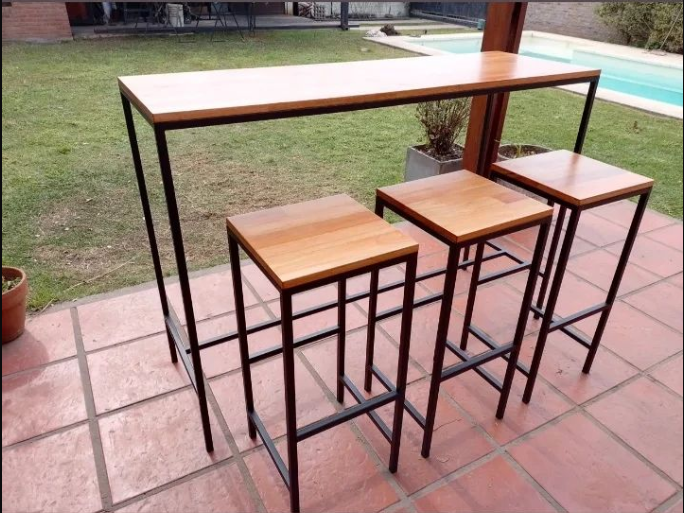
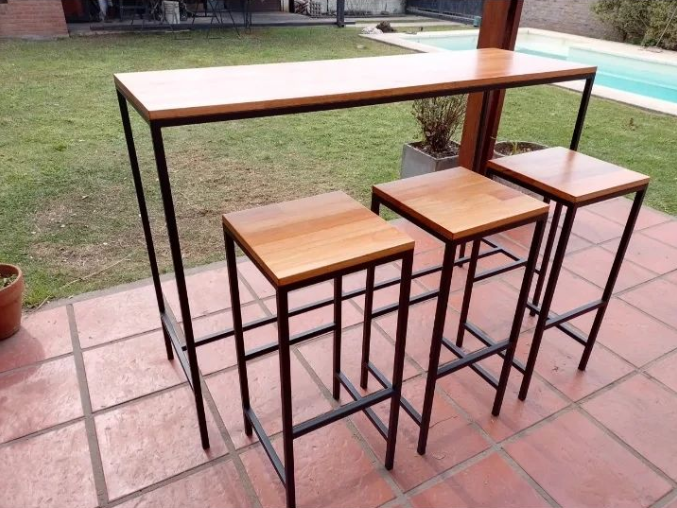
fix rounded images

diff --git a/src/components/CarouselProject.tsx b/src/components/CarouselProject.tsx
@@ -49,9 +49,9 @@ export function CarouselProject({ images }: { images: string[] }) {
       <CarouselContent>
         {images.map((image, index) => (
           <CarouselItem key={index}>
-            <Card>
+            <Card className="rounded-none">
               <CardContent
-                className={`flex aspect-square p-0 justify-center cursor-grab  active:cursor-grabbing  select-none overflow-clip  relative`}
+                className={`flex aspect-square p-0 justify-center cursor-grab  active:cursor-grabbing  select-none overflow-clip  relative rounded-none`}
               >
                 <img
                   src={image}

diff --git a/src/components/Project.tsx b/src/components/Project.tsx
@@ -22,7 +22,7 @@ export function Project({ data }: { data: ProjectData }) {
       <DialogTrigger asChild>
         <div
           className={
-            "flex aspect-square p-0 justify-center hover:brightness-75 select-none overflow-clip  relative"
+            "flex aspect-square p-0 justify-center hover:brightness-75 select-none overflow-clip rounded  relative"
           }
         >
           <img
